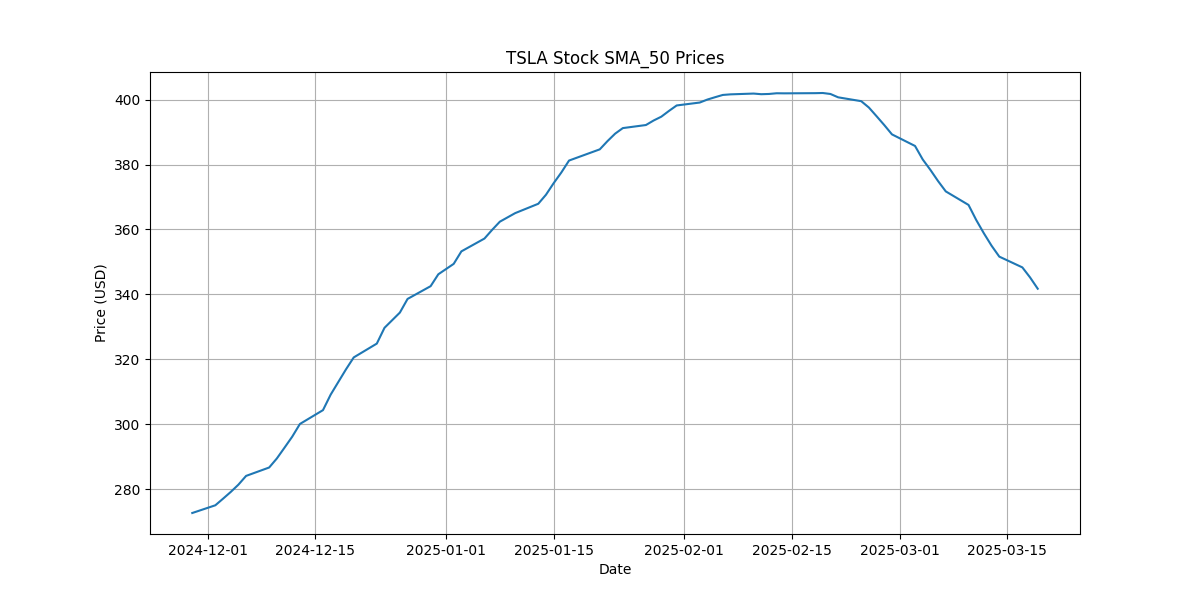
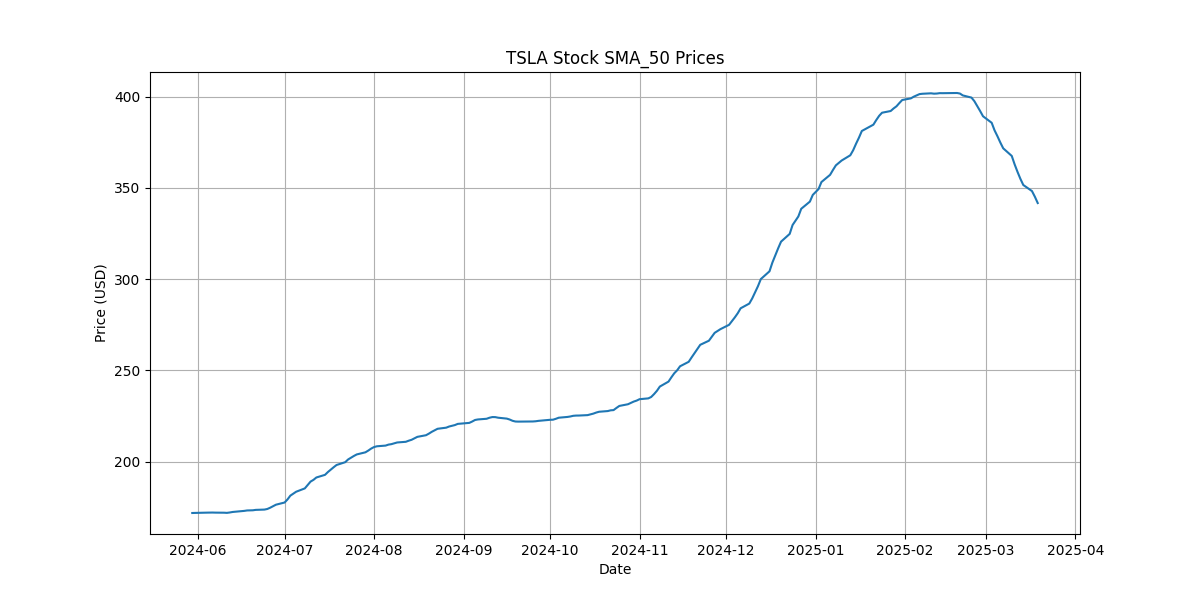
Added the SMA Overlayed Plot, fixed some comments for ease of use

diff --git a/main.py b/main.py
@@ -25,7 +25,7 @@ def show_basic_stats_tsl():
 
 #Here we call all the 3 functions in a single print() and the final output sort of looks like a report
 
-#!!!print(f"{show_head_tsl(5)}\n{check_missing_values()}\n{show_basic_stats_tsl()}") /n#2 This was made into a comment since this is not needed at the moment
+#!!!print(f"{show_head_tsl(5)}\n{check_missing_values()}\n{show_basic_stats_tsl()}") #2 This was made into a comment since this is not needed at the moment
 
 #Lets Try to plot the data, the X parameter axis will be the date, the Y parameter axis is the closing price
 def access_closing_price_with_date(Ticker):
@@ -40,23 +40,26 @@ def access_closing_price_with_date(Ticker):
     plt.savefig('tesla_stock_plot.png')  # Save to file instead of showing
     plt.close()
 
-#!!!access_closing_price_with_date(tsla_history) /n#2 This was made into a comment since this was already plotted, no need to do it every runtime
+#!!!access_closing_price_with_date(tsla_history) #2 This was made into a comment since this was already plotted, no need to do it every runtime /n#3 In Order To standardize everything, the  SMA functions will use 1y 
 
 def calculation_moving_averages_SMA_50(Ticker):
-    Ticker["SMA_50"] = Ticker.Close.rolling(window=50).mean()
-    plt.figure(figsize=(12, 6))  
-    plt.plot(Ticker.index, Ticker.SMA_50)
-    plt.title(f'{Ticker} Stock SMA_50 Prices')
-    plt.xlabel('Date')
-    plt.ylabel('Price (USD)')
-    plt.grid(True)
-    plt.savefig('tesla_stock_SMA_50_plot.png')  
-    plt.close()
- 
+    if len(Ticker) >= 50:
+        Ticker["SMA_50"] = Ticker.Close.rolling(window=50).mean()
+        plt.figure(figsize=(12, 6))  
+        plt.plot(Ticker.index, Ticker.SMA_50)
+        plt.title(f'TSLA Stock SMA_50 Prices')
+        plt.xlabel('Date')
+        plt.ylabel('Price (USD)')
+        plt.grid(True)
+        plt.savefig('tesla_stock_SMA_50_plot.png')  
+        plt.close()
+    else:
+        raise ValueError("Not Enough Data for SMA_50")
 
 
 #For this to work, we need TSLA data that goes further than 6 months, which is why another Ticker for TSLA will be created, 1year
 tsla_history_1y= tsla.history(period="1y")
+#We are calculating averages, something used as sell or buy signals, 50 is short, 200 is long
 
 def calculation_moving_averages_SMA_200(Ticker):
     if len(Ticker) >= 200:
@@ -71,4 +74,26 @@ def calculation_moving_averages_SMA_200(Ticker):
         plt.close()
     else:
         raise ValueError("Not Enough Data for SMA_200")
-calculation_moving_averages_SMA_200(tsla_history_1y)
+    
+#!!!calculation_moving_averages_SMA_200(tsla_history_1y) #3 This was made into a comment since this was already plotted
+#!!!calculation_moving_averages_SMA_50(tsla_history_1y) #3 This was made into a comment since this was already plotted
+#Overalying all on a single plot
+def overlaying_SMA(Ticker):
+    if len(Ticker) >= 200:
+        Ticker["SMA_50"] = Ticker.Close.rolling(window=50).mean()
+        Ticker["SMA_200"] = Ticker.Close.rolling(window=200).mean()
+        plt.figure(figsize=(12, 6))  
+        plt.plot(Ticker.index, Ticker.SMA_50,label="50-Day SMA", color="blue")
+        plt.plot(Ticker.index, Ticker.SMA_200, label="200-Day SMA", color="orange")
+        plt.plot(Ticker.index, Ticker.Close,label="Closing Price", color="red")
+        plt.title('TSLA Stock_Overlaying_SMA')
+        plt.legend()
+        plt.xlabel('Date')
+        plt.ylabel('Price (USD)')
+        plt.grid(True)
+        plt.savefig('tesla_stock_Overlaying_SMA_plot.png')  
+        plt.close()
+    else:
+        raise ValueError("Not Enough Data for Overlaying_SMA")
+
+#!!! overlaying_SMA(tsla_history_1y) #4 Done already! no need to repeat at runtime
